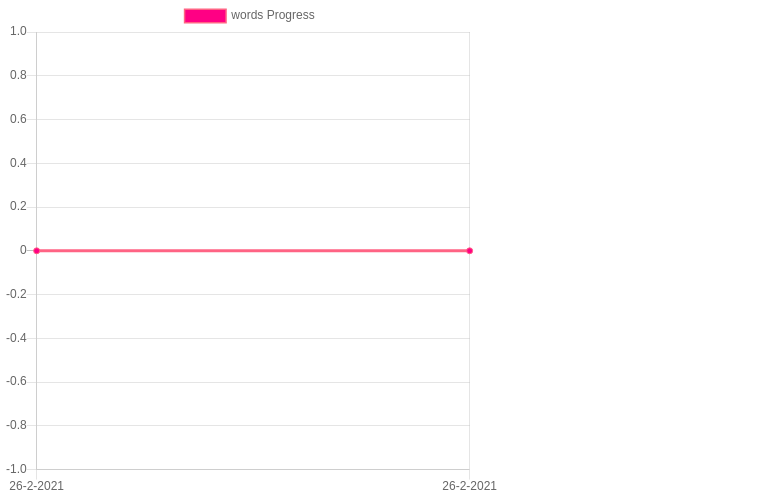
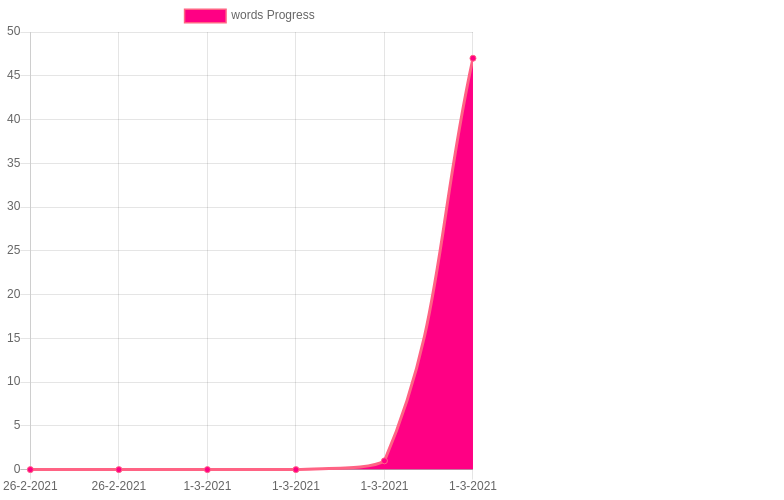
words: scala and go backtracking

diff --git a/total.html b/total.html
@@ -9,7 +9,7 @@
         <script src="https://cdn.jsdelivr.net/npm/chart.js@2.8.0"></script>
         <script>
           var ctx = document.getElementById("total").getContext("2d");
-          const goLabelsDates = ["2021-02-27T01:37:43.112Z","2021-02-27T01:38:01.628Z","2021-03-01T13:41:18.753Z","2021-03-01T14:53:41.991Z",];
+          const goLabelsDates = ["2021-02-27T01:37:43.112Z","2021-02-27T01:38:01.628Z","2021-03-01T13:41:18.753Z","2021-03-01T14:53:41.991Z","2021-03-01T15:08:00.851Z","2021-03-01T15:09:10.635Z","2021-03-01T15:22:55.385Z",];
           var chart = new Chart(ctx, {
             type: 'line',
             data: {
@@ -18,7 +18,7 @@
                 label: 'total Progress',
                 backgroundColor: 'rgb(255, 0, 132)',
                 borderColor: 'rgb(255, 99, 132)',
-                data: [7975,7975,8307,8526,]
+                data: [7975,7975,8307,8526,8526,8527,8573,]
               }]
             },
           });

diff --git a/words.html b/words.html
@@ -9,7 +9,7 @@
         <script src="https://cdn.jsdelivr.net/npm/chart.js@2.8.0"></script>
         <script>
           var ctx = document.getElementById("words").getContext("2d");
-          const goLabelsDates = ["2021-02-27T01:37:43.111Z","2021-02-27T01:38:01.627Z",];
+          const goLabelsDates = ["2021-02-27T01:37:43.111Z","2021-02-27T01:38:01.627Z","2021-03-01T14:53:41.990Z","2021-03-01T15:08:00.850Z","2021-03-01T15:09:10.634Z","2021-03-01T15:22:55.385Z",];
           var chart = new Chart(ctx, {
             type: 'line',
             data: {
@@ -18,7 +18,7 @@
                 label: 'words Progress',
                 backgroundColor: 'rgb(255, 0, 132)',
                 borderColor: 'rgb(255, 99, 132)',
-                data: [0,0,]
+                data: [0,0,0,0,1,47,]
               }]
             },
           });

diff --git a/Readme.md b/Readme.md
@@ -318,3 +318,123 @@ node ./count.js
 * Spring, Play
 * Scala, Java
 , 2021-03-01T14:53:41.991Z
+# All count
+|Language|Lines|%|%|
+|----------|-------|--------|--------|
+|go|2201|110|110|
+|js|1822|91|91|
+|python|1149|57|57|
+|scala|975|49|49|
+|ts|829|41|41|
+|ruby|810|41|41|
+|java|731|37|37|
+|sql|9|0|0|
+|dotnet|0|0|0|
+|words|0|0|0|
+|TOTAL|8526|852.600%|
+10/02(0)
+
+10/03(8526)
+
+
+# run it
+node ./count.js
+    
+# Enforce
+* Algorithms
+* Code writing velocity
+
+# Activities
+* Write source code related to any topic
+* Comment the understanding part of it
+    
+# Purposes
+* Reach to 100 lines daily
+* 2000 lines of source code monthly
+* 20 commits more
+
+# Technologies
+* Angular, React, Vue
+* Spring, Play
+* Scala, Java
+, 2021-03-01T15:08:00.851Z
+# All count
+|Language|Lines|%|%|
+|----------|-------|--------|--------|
+|go|2201|110|110|
+|js|1822|91|91|
+|python|1149|57|57|
+|scala|975|49|49|
+|ts|829|41|41|
+|ruby|810|41|41|
+|java|731|37|37|
+|sql|9|0|0|
+|words|1|0|0|
+|dotnet|0|0|0|
+|TOTAL|8527|852.700%|
+10/02(0)
+
+10/03(8527)
+
+
+# run it
+node ./count.js
+    
+# Enforce
+* Algorithms
+* Code writing velocity
+
+# Activities
+* Write source code related to any topic
+* Comment the understanding part of it
+    
+# Purposes
+* Reach to 100 lines daily
+* 2000 lines of source code monthly
+* 20 commits more
+
+# Technologies
+* Angular, React, Vue
+* Spring, Play
+* Scala, Java
+, 2021-03-01T15:09:10.635Z
+# All count
+|Language|Lines|%|%|
+|----------|-------|--------|--------|
+|go|2201|110|110|
+|js|1822|91|91|
+|python|1149|57|57|
+|scala|975|49|49|
+|ts|829|41|41|
+|ruby|810|41|41|
+|java|731|37|37|
+|words|47|2|2|
+|sql|9|0|0|
+|dotnet|0|0|0|
+|TOTAL|8573|857.300%|
+10/02(0)
+
+10/03(8573)
+
+
+# run it
+node ./count.js
+    
+# Enforce
+* Algorithms
+* Code writing velocity
+
+# Activities
+* Write source code related to any topic
+* Comment the understanding part of it
+    
+# Purposes
+* Reach to 100 lines daily
+* 2000 lines of source code monthly
+* 20 commits more
+
+# Technologies
+* Angular, React, Vue
+* Spring, Play
+* Scala, Java
+, 2021-03-01T15:22:55.385Z
